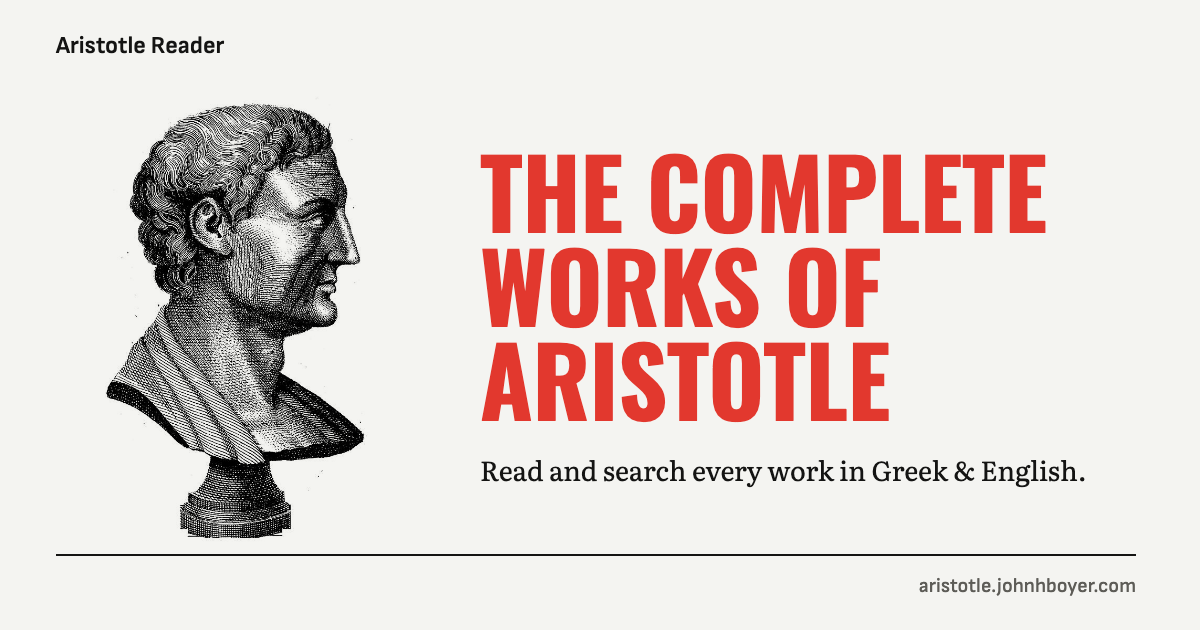
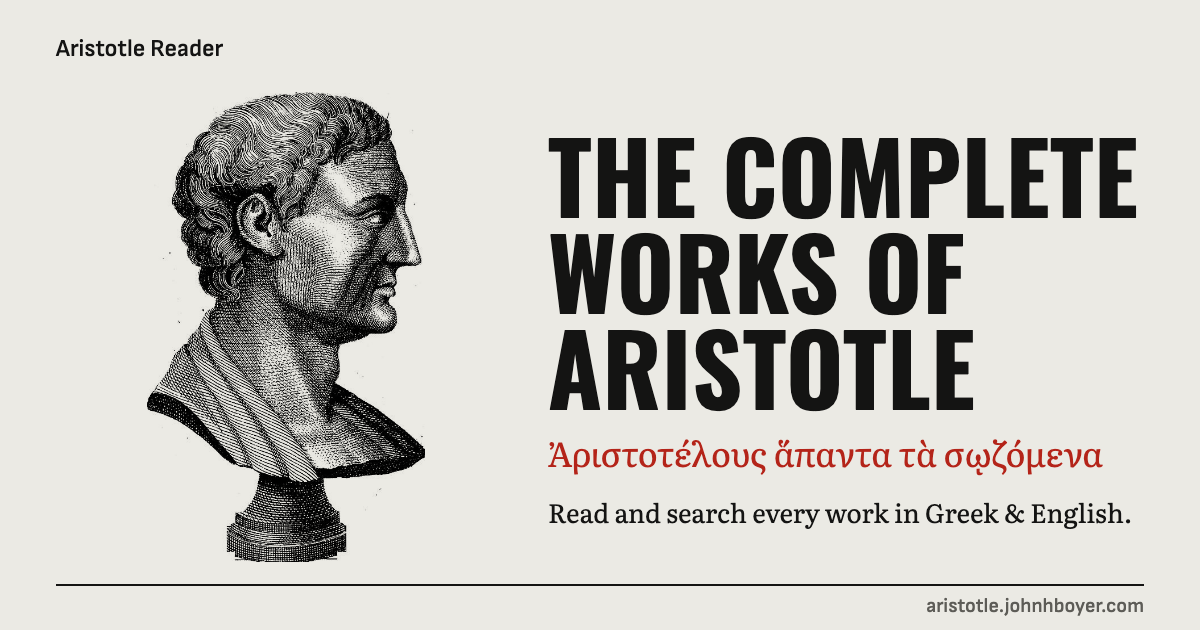
Share cards: one per work, and the site card redrawn to the final home
Each work's landing and book pages now name their own og:image,
public/og/<Work>.jpg (47 cards, 4.8 MB): the work's plate on the left,
its title, Greek title, and reading line ("Greek and English · Edghill")
on the right, read from the work's page so the card says what the page
says. A work without a card falls back to og-default.png.

og-default.png is redrawn to match the home as built: the title in black
Oswald, the Greek line in red, John's line under it. The lemma, search,
and other pages keep it.

scripts/make-og-cards.mjs draws them all (--base for a local build,
--only for a few); og-cards.test.ts checks one 1200x630 card per work
and that both page kinds name it.

Changed region(s): [[0.4008, 0.2111, 0.9558, 0.8444], [0.0617, 0.1206, 0.9558, 0.9952], [0.0308, 0.0603, 0.185, 0.0905]]

diff --git a/app/src/__tests__/og-cards.test.ts b/app/src/__tests__/og-cards.test.ts
@@ -1,0 +1,42 @@
+// Share cards: every work has its own (public/og/<Work>.jpg, from scripts/make-og-cards.mjs),
+// 1200×630 as the og:image tags declare, and its landing and book pages name it.
+import { describe, it, expect } from 'vitest';
+import { readFileSync, readdirSync } from 'node:fs';
+import { resolve } from 'node:path';
+import plates from '../data/plates.json';
+
+const root = resolve(__dirname, '../..');
+const works = Object.keys(plates).filter(id => id !== 'home' && id !== '404');
+
+function jpegSize(b: Buffer): [number, number] {
+  expect(b.readUInt16BE(0)).toBe(0xffd8);
+  for (let p = 2; p < b.length;) {
+    if (b[p] !== 0xff) { p++; continue; }
+    const m = b[p + 1];
+    if (m >= 0xc0 && m <= 0xc3) return [b.readUInt16BE(p + 7), b.readUInt16BE(p + 5)];
+    p += 2 + b.readUInt16BE(p + 2);
+  }
+  return [0, 0];
+}
+
+describe('share cards', () => {
+  it('has one 1200×630 card per work and no others', () => {
+    expect(works.length).toBeGreaterThan(40);
+    const files = readdirSync(resolve(root, 'public/og')).sort();
+    expect(files).toEqual(works.map(id => `${id}.jpg`).sort());
+    for (const id of works) expect(jpegSize(readFileSync(resolve(root, `public/og/${id}.jpg`))), id).toEqual([1200, 630]);
+  });
+
+  it('keeps the site card at 1200×630', () => {
+    const b = readFileSync(resolve(root, 'public/og-default.png'));
+    expect([b.readUInt32BE(16), b.readUInt32BE(20)]).toEqual([1200, 630]);
+  });
+
+  it('points the landing and book pages at the work card', () => {
+    for (const f of ['src/components/Landing.astro', 'src/components/ReaderShell.astro']) {
+      const s = readFileSync(resolve(root, f), 'utf8');
+      expect(s, f).toMatch(/og\/\$\{workId\}\.jpg/);
+      expect(s, f).toMatch(/new URL\(`\$\{base\}\/\$\{ogCard\}`/);
+    }
+  });
+});
